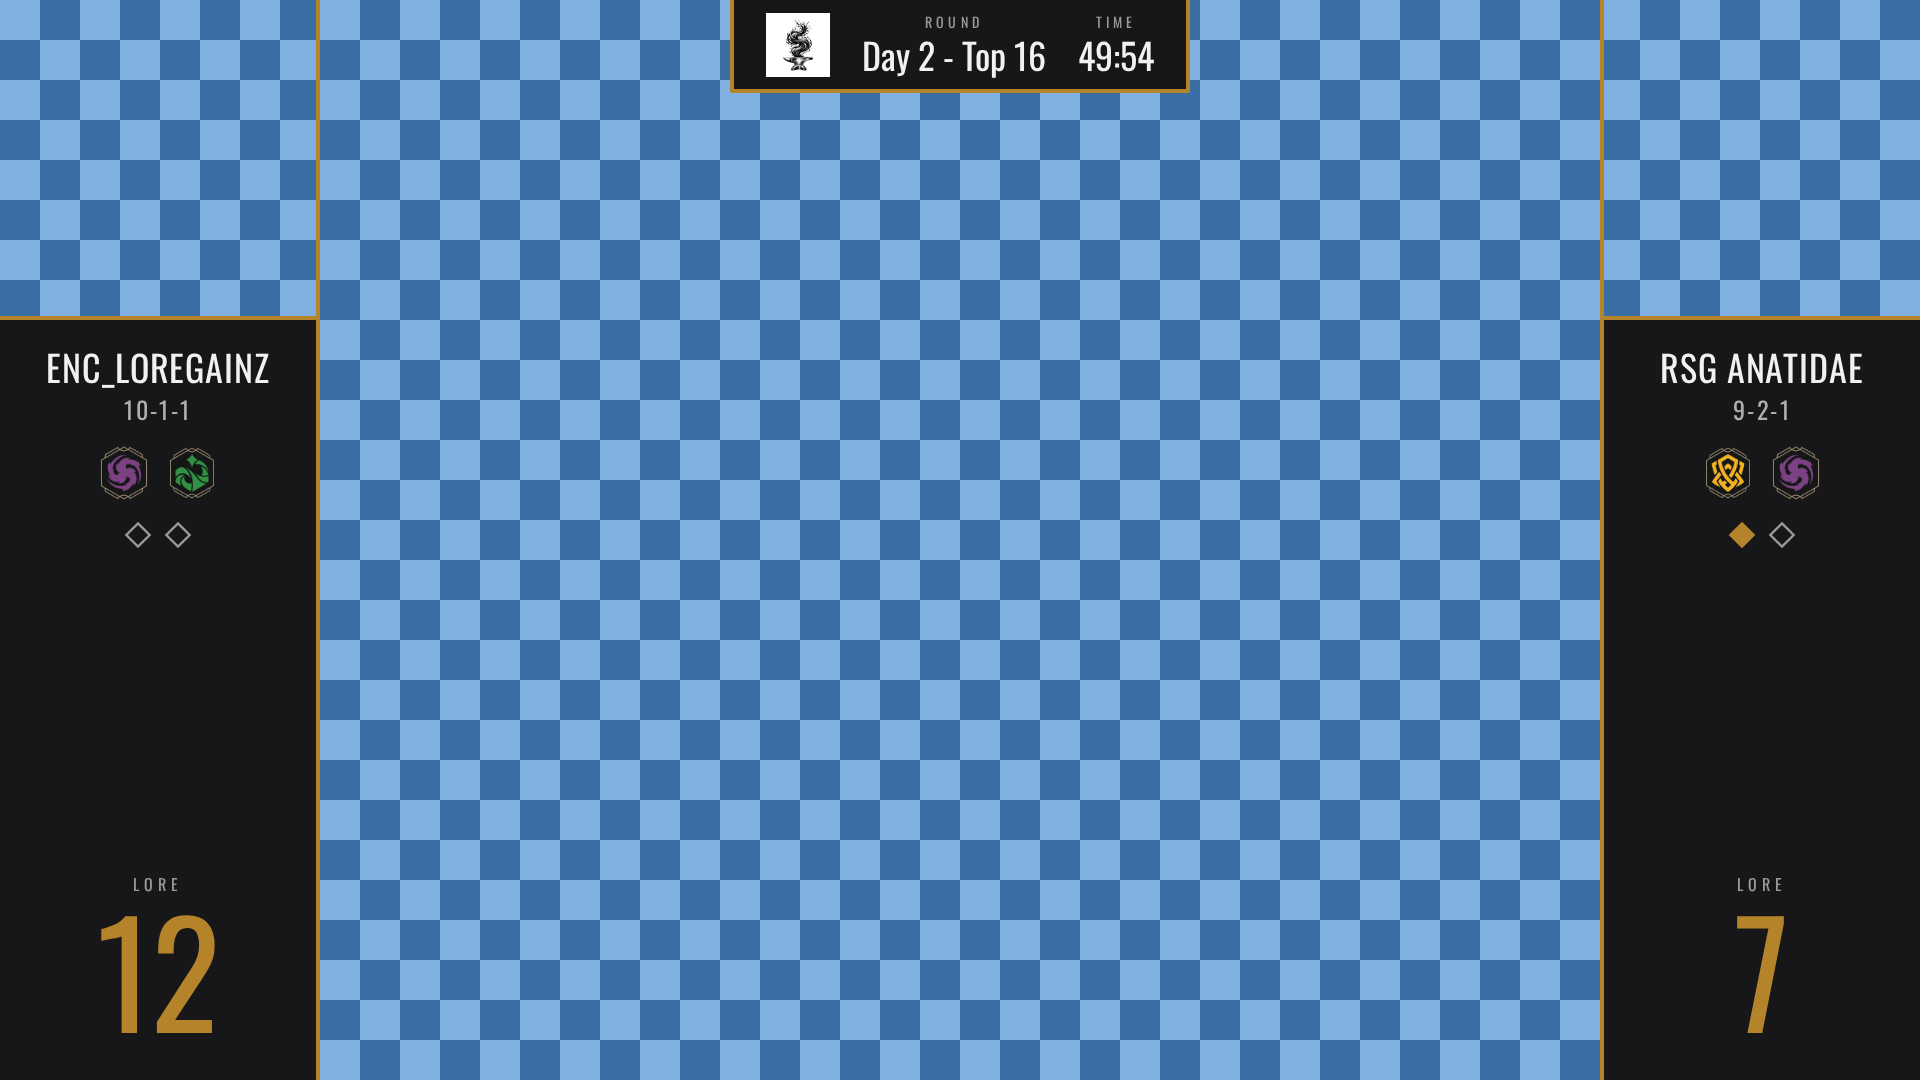
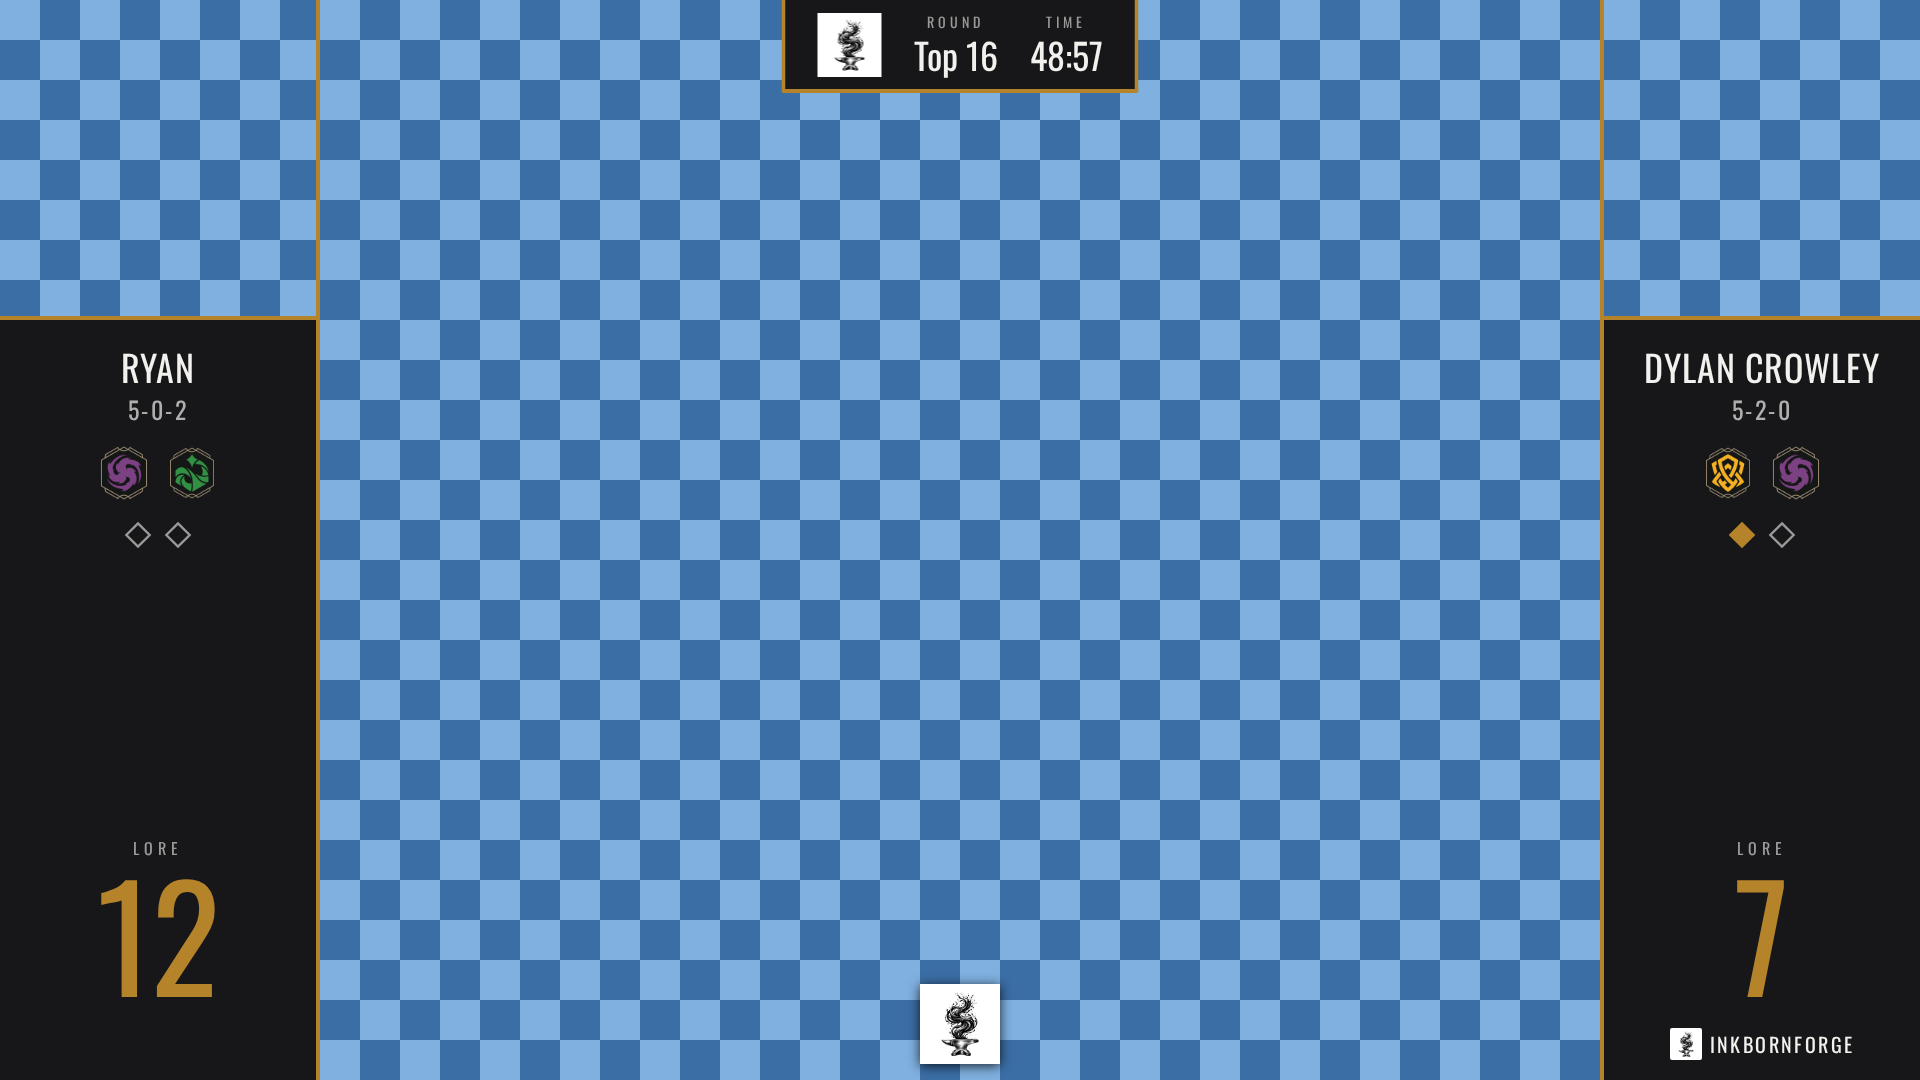
Stream Overlay: InkbornForge brand lockup on the overlay view
The mark and wordmark, the same lockup Nav uses, at the foot of the
right column, where the reference streams place the overlay tool's
brand. The left column reserves the same height so both lore totals
stay aligned.

Claude-Session: https://claude.ai/code/session_01PuhSUkhQdqWYCWVwuEZRoD

diff --git a/src/pages/StreamOverlayViewPage.jsx b/src/pages/StreamOverlayViewPage.jsx
@@ -98,9 +98,19 @@ function SideColumn({ player, side }) {
         ))}
       </div>
 
-      <div className="mt-auto mb-10 text-center">
+      <div className="mt-auto text-center">
         <div className="text-base uppercase tracking-[0.3em] text-on-ink/60">Lore</div>
         <div className="text-[9rem] leading-none text-forge tabular-nums">{player.lore}</div>
+      </div>
+
+      {/* Brand lockup, bottom-right like the reference streams; mirrors Nav's. */}
+      <div className="mt-6 mb-5 h-8 flex items-center justify-center gap-2">
+        {side === 'right' && (
+          <>
+            <img src="/inkborn_forge_mark_64.png" alt="" className="h-8 w-8 rounded-sm" />
+            <span className="text-xl uppercase tracking-[0.12em]">InkbornForge</span>
+          </>
+        )}
       </div>
       </div>
     </div>

diff --git a/CLAUDE.md b/CLAUDE.md
@@ -506,7 +506,7 @@ Client-side, `routeTitle()`/`routeDescription()` resolve a `/blog/<slug>` path t
 A tournament gameplay overlay for OBS, in the same control-page + chrome-less-view shape as the Decklist Inspector, plus a players' controller. Three routes share one Broadcast channel:
 
 - `StreamOverlayPage` (`/stream-overlay`, supporter-gated, Content Creators) is the control panel and the **only publisher of state**: event logo/name, sponsor logo, round, round timer, Swap sides, and per player name, record, inks, game-win pips, lore. "Copy OBS overlay link" / "Copy player controller link" give the two other URLs.
-- `StreamOverlayViewPage` (`/stream-overlay/view?channel=<id>`, unguarded) is the one Browser Source: a fixed 1920×1080 frame with opaque ink-black side columns (a transparent **square** cutout at the top of each — the operator positions that player's camera behind it in OBS — then name, record, ink icons, game-win pips, lore) and a top banner (event logo or name, round, timer); everything else is transparent so the gameplay cam sits behind it. An optional sponsor logo sits bottom-center.
+- `StreamOverlayViewPage` (`/stream-overlay/view?channel=<id>`, unguarded) is the one Browser Source: a fixed 1920×1080 frame with opaque ink-black side columns (a transparent **square** cutout at the top of each — the operator positions that player's camera behind it in OBS — then name, record, ink icons, game-win pips, lore) and a top banner (event logo or name, round, timer); everything else is transparent so the gameplay cam sits behind it. An optional sponsor logo sits bottom-center, and the InkbornForge mark + wordmark (same lockup as `Nav`) sits at the foot of the right column, where the reference streams put the overlay tool's brand.
 - `StreamOverlayControlPage` (`/stream-overlay/control?channel=<id>`, unguarded) is the players' controller for a tablet at the table: one half per player with big lore ±1 and game-win ±1 taps. It renders the panel's state and **never publishes state** — each tap sends an `adjust` delta `{ player, field, delta }` that the panel applies with a functional update and re-broadcasts. That one-authority design is deliberate: an earlier peer-to-peer version (every client publishing full state) lost taps, because the panel echoed each adopted state back and the tablet overwrote its newer local count with a stale echo. Consequence: the controller needs the panel open (it shows "Waiting for the control panel…" until the heartbeat arrives), and only one panel should be open per channel.
 
 State never touches a table. The panel publishes the whole state object on a **Supabase Realtime Broadcast** channel (`stream-overlay:<id>`, anon key, no auth — verified to work on this project with two plain clients) on every change and again every 5 s as a heartbeat, so a view or controller that loads late or reconnects catches up without any request/reply. The channel id is random, minted once and kept in localStorage with the state (`lorcana_stream_overlay`, `loadSaved()`/`storeSaved()`), because the OBS link embeds it. The round timer is a wall-time target (`timerEndsAt`; paused = `null` + `timerRemainingMs`), so the view ticks on its own and the panel can be closed mid-round. Logos are plain image URLs typed into the panel; nothing is uploaded.
